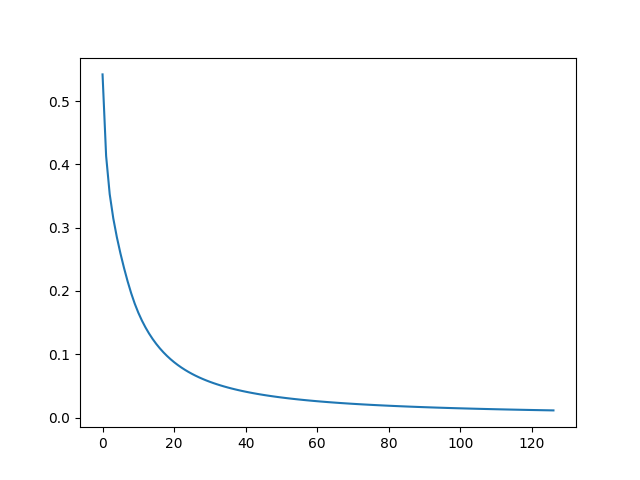
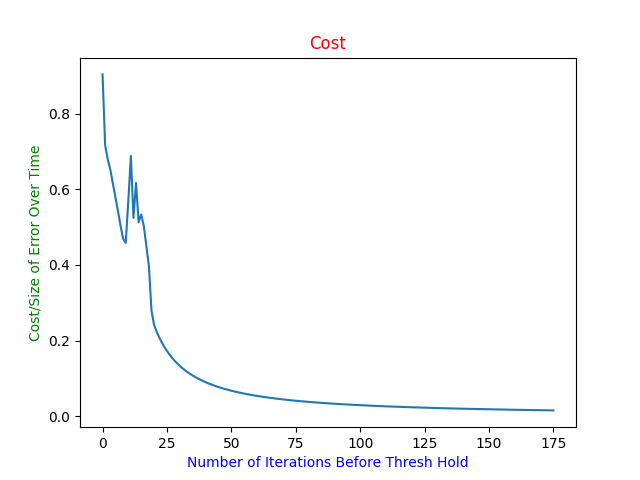
Reformatting

diff --git a/MyFiles/NeuralNetwork.py b/MyFiles/NeuralNetwork.py
@@ -146,6 +146,9 @@ def main():
         print("Experimental cost: ", experimental_cost)
         output_text(cost_record, experimental_cost)
         plt.plot(cost_record)
+        plt.title("Cost", color = "red")
+        plt.xlabel("Number of Iterations Before Thresh Hold", color = "blue")
+        plt.ylabel("Cost/Size of Error Over Time", color = "green")
         plt.savefig("cost_record.png")
         plt.show()
         string_input = input("Do you want to keep testing the model? (y/n): ")